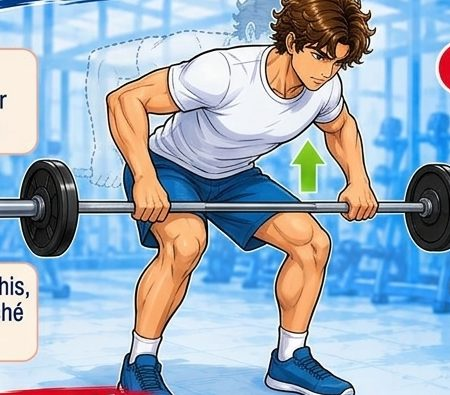
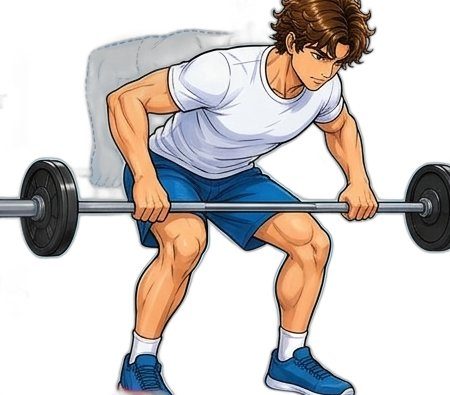
v2.12 : vignettes des ateliers détourées (fond retiré)
Claude-Session: https://claude.ai/code/session_01W45JVKsQKW4xh1AxP6R2BL

diff --git a/sw.js b/sw.js
@@ -1,6 +1,6 @@
 /* Cycle musculation : l'écran de cours et l'outil sont mis en cache à la 1re ouverture (Wi-Fi), puis fonctionnent sans réseau.
    Après une modification : augmenter le numéro de C (construire.py le fait pour l'écran de cours). */
-const C='cycle-musculation-v2.11';
+const C='cycle-musculation-v2.12';
 // Toutes les applis partagent le même stockage (même adresse github.io) : on n'efface QUE les anciennes versions de CETTE appli.
 const MES_CACHES=/^cycle-musculation-v\d+(?:\.\d+)?$/;
 
